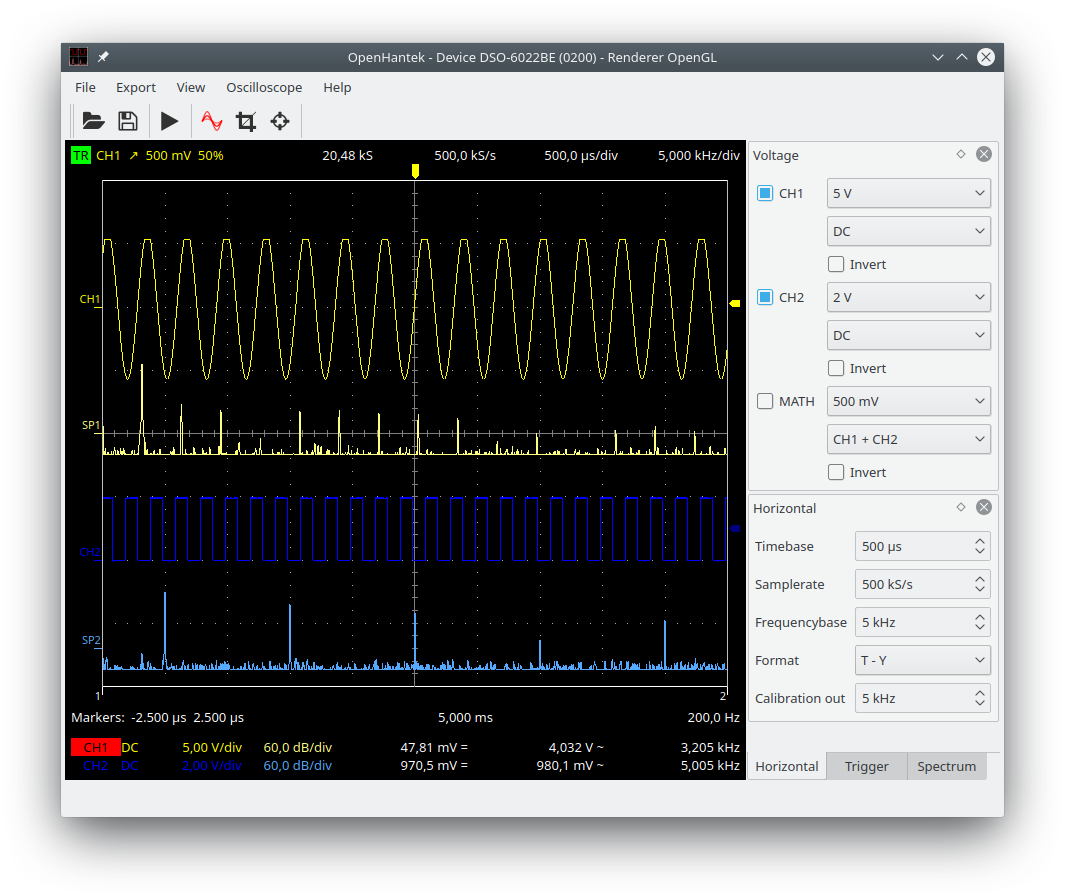
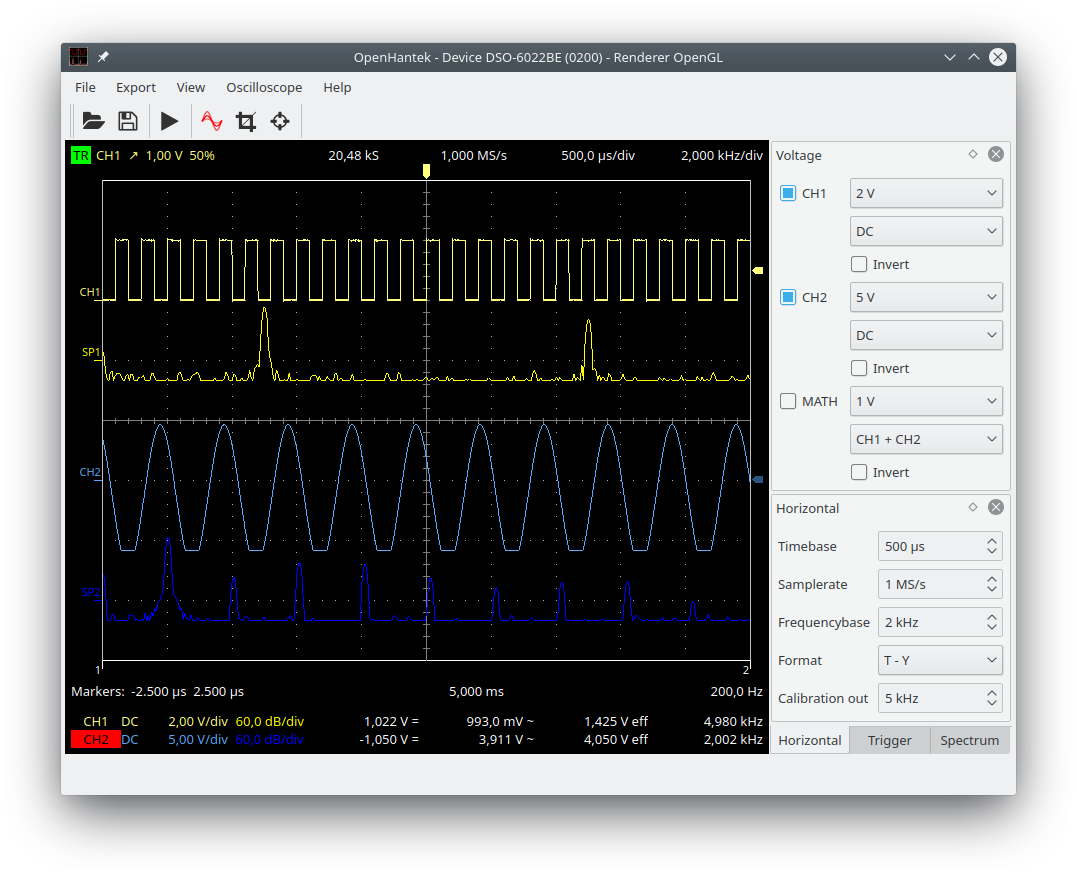
more URL updates, show build date in title

diff --git a/openhantek/src/mainwindow.cpp b/openhantek/src/mainwindow.cpp
@@ -44,10 +44,12 @@ MainWindow::MainWindow(HantekDsoControl *dsoControl, DsoSettings *settings, Expo
     // Window title
     setWindowIcon(QIcon(":openhantek.png"));
     setWindowTitle(
-        tr("OpenHantek - Device %1 (%2) - Renderer %3")
+        tr("OpenHantek6022 (Build %1) - Device %2 (FW %3)") //" - Renderer %4")
+            .arg(QString::fromStdString( VERSION))
             .arg(QString::fromStdString(dsoControl->getDevice()->getModel()->name))
             .arg((unsigned int)dsoControl->getDevice()->getFwVersion(),4,16,QChar('0'))
-            .arg(QSurfaceFormat::defaultFormat().renderableType() == QSurfaceFormat::OpenGL ? "OpenGL" : "OpenGL ES"));
+            //.arg(QSurfaceFormat::defaultFormat().renderableType() == QSurfaceFormat::OpenGL ? "OpenGL" : "OpenGL ES")
+        );
 
 #if (QT_VERSION >= QT_VERSION_CHECK(5, 6, 0))
     setDockOptions(dockOptions() | QMainWindow::GroupedDragging);
@@ -293,12 +295,12 @@ MainWindow::MainWindow(HantekDsoControl *dsoControl, DsoSettings *settings, Expo
 
     connect(ui->actionAbout, &QAction::triggered, [this]() {
         QMessageBox::about(
-            this, tr("About OpenHantek %1").arg(VERSION),
-            tr("<p>This is a open source software for Hantek USB oscilloscopes.</p>"
+            this, tr("About OpenHantek6022 (Build %1)").arg(VERSION),
+            tr("<p>This is a open source software for Hantek6022 USB oscilloscopes</p>"
                "<p>Copyright &copy; 2010, 2011 Oliver Haag<br><a "
                "href='mailto:oliver.haag@gmail.com'>oliver.haag@gmail.com</a></p>"
-               "<p>Copyright &copy; 2012-2017 OpenHantek community<br>"
-               "<a href='https://github.com/OpenHantek/openhantek'>https://github.com/OpenHantek/openhantek</a></p>"));
+               "<p>Copyright &copy; 2012-2019 OpenHantek community<br>"
+               "<a href='https://github.com/OpenHantek'>https://github.com/OpenHantek</a></p>"));
     });
 
     if (mSettings->scope.horizontal.samplerateSource == DsoSettingsScopeHorizontal::Samplerrate)

diff --git a/openhantek/src/selectdevice/selectsupporteddevice.cpp b/openhantek/src/selectdevice/selectsupporteddevice.cpp
@@ -28,7 +28,7 @@ SelectSupportedDevice::SelectSupportedDevice(QWidget *parent) :
         QCoreApplication::instance()->quit();
     });
     connect(ui->buttonBox, &QDialogButtonBox::helpRequested, [this]() {
-        QDesktopServices::openUrl(QUrl("https://github.com/OpenHantek/openhantek#openhantek--"));
+        QDesktopServices::openUrl(QUrl("https://github.com/OpenHantek/OpenHantek6022"));
     });
     connect(ui->btnAddDevice, &QPushButton::clicked, [this]() {
         newDeviceFromExistingDialog->setModal(true);

diff --git a/openhantek/src/main.cpp b/openhantek/src/main.cpp
@@ -84,7 +84,7 @@ int main(int argc, char *argv[]) {
     //////// Set application information ////////
     QCoreApplication::setOrganizationName("OpenHantek");
     QCoreApplication::setOrganizationDomain("www.openhantek.org");
-    QCoreApplication::setApplicationName("OpenHantek");
+    QCoreApplication::setApplicationName("OpenHantek6022");
     QCoreApplication::setApplicationVersion(VERSION);
     QCoreApplication::setAttribute(Qt::AA_UseHighDpiPixmaps, true);
 #if (QT_VERSION >= QT_VERSION_CHECK(5, 6, 0))

diff --git a/docs/index.md b/docs/index.md
@@ -2,11 +2,14 @@
 layout: default
 overview: false
 ---
-# OpenHantek 6022
+# OpenHantek6022
 
-[![Build Status](https://travis-ci.org/Ho-Ro/openhantek.svg)](https://travis-ci.org/Ho-Ro/openhantek) [![Build status](https://ci.appveyor.com/api/projects/status/github/Ho-Ro/openhantek?svg=true)](https://ci.appveyor.com/project/Ho-Ro/openhantek) [![Stability: Experimental](https://masterminds.github.io/stability/experimental.svg)](https://masterminds.github.io/stability/experimental.html)
+[![Build Status](https://travis-ci.org/OpenHantek/OpenHantek6022.svg)](https://travis-ci.org/OpenHantek/OpenHantek6022)
+[![Build status](https://ci.appveyor.com/api/projects/status/github/OpenHantek/openhantek6022?svg=true)](https://ci.appveyor.com/project/Ho-Ro/openhantek6022)  
+[![CodeFactor](https://www.codefactor.io/repository/github/openhantek/openhantek6022/badge)](https://www.codefactor.io/repository/github/openhantek/openhantek6022)
+[![Stability: Active](https://masterminds.github.io/stability/active.svg)](https://masterminds.github.io/stability/active.html)
 
-OpenHantek is a free software for Hantek and compatible (Voltcraft/Darkwire/Protek/Acetech) USB digital signal oscilloscopes. 
+OpenHantek6022 is a free software for Hantek and compatible (Voltcraft/Darkwire/Protek/Acetech) USB digital signal oscilloscopes. 
 It was initially developed by [David Gräff and others](https://github.com/OpenHantek/openhantek/graphs/contributors) on [github.com/OpenHantek/openhantek](https://github.com/OpenHantek/openhantek). After David [stopped maintaining](https://github.com/OpenHantek/openhantek/issues/277) the programm I cloned the repo to provide some updates - but only for Hantek 6022BE/BL on the linux platform.
 
 <img alt="Image of main window on linux" width="100%" src="images/screenshot_mainwindow.png">

diff --git a/readme.md b/readme.md
@@ -51,7 +51,7 @@ We have build instructions available for [Linux](docs/build.md#linux), [Apple Ma
 
 ## Run OpenHantek
 With the original OpenHantek version you needed an OpenGL 3.2+ or OpenGL ES 2.0+ capable graphics hardware.
-OpenHantek6022 runs now on legacy HW/SW (OpenGL 2.1+ or OpenGL ES 1.2+) with the patch [coozoo@01b42d3](https://github.com/coozoo/openhantek/commit/01b42d3db2921a0aa83ea6808147ea6257de3f28)
+OpenHantek6022 runs also on legacy HW/SW (OpenGL 2.1+ or OpenGL ES 1.2+) with the patch [coozoo@01b42d3](https://github.com/coozoo/openhantek/commit/01b42d3db2921a0aa83ea6808147ea6257de3f28)
 OpenGL is preferred, if available. Overwrite this behaviour by starting OpenHantek
 from the command line like this: `OpenHantek --useGLES`.
 
